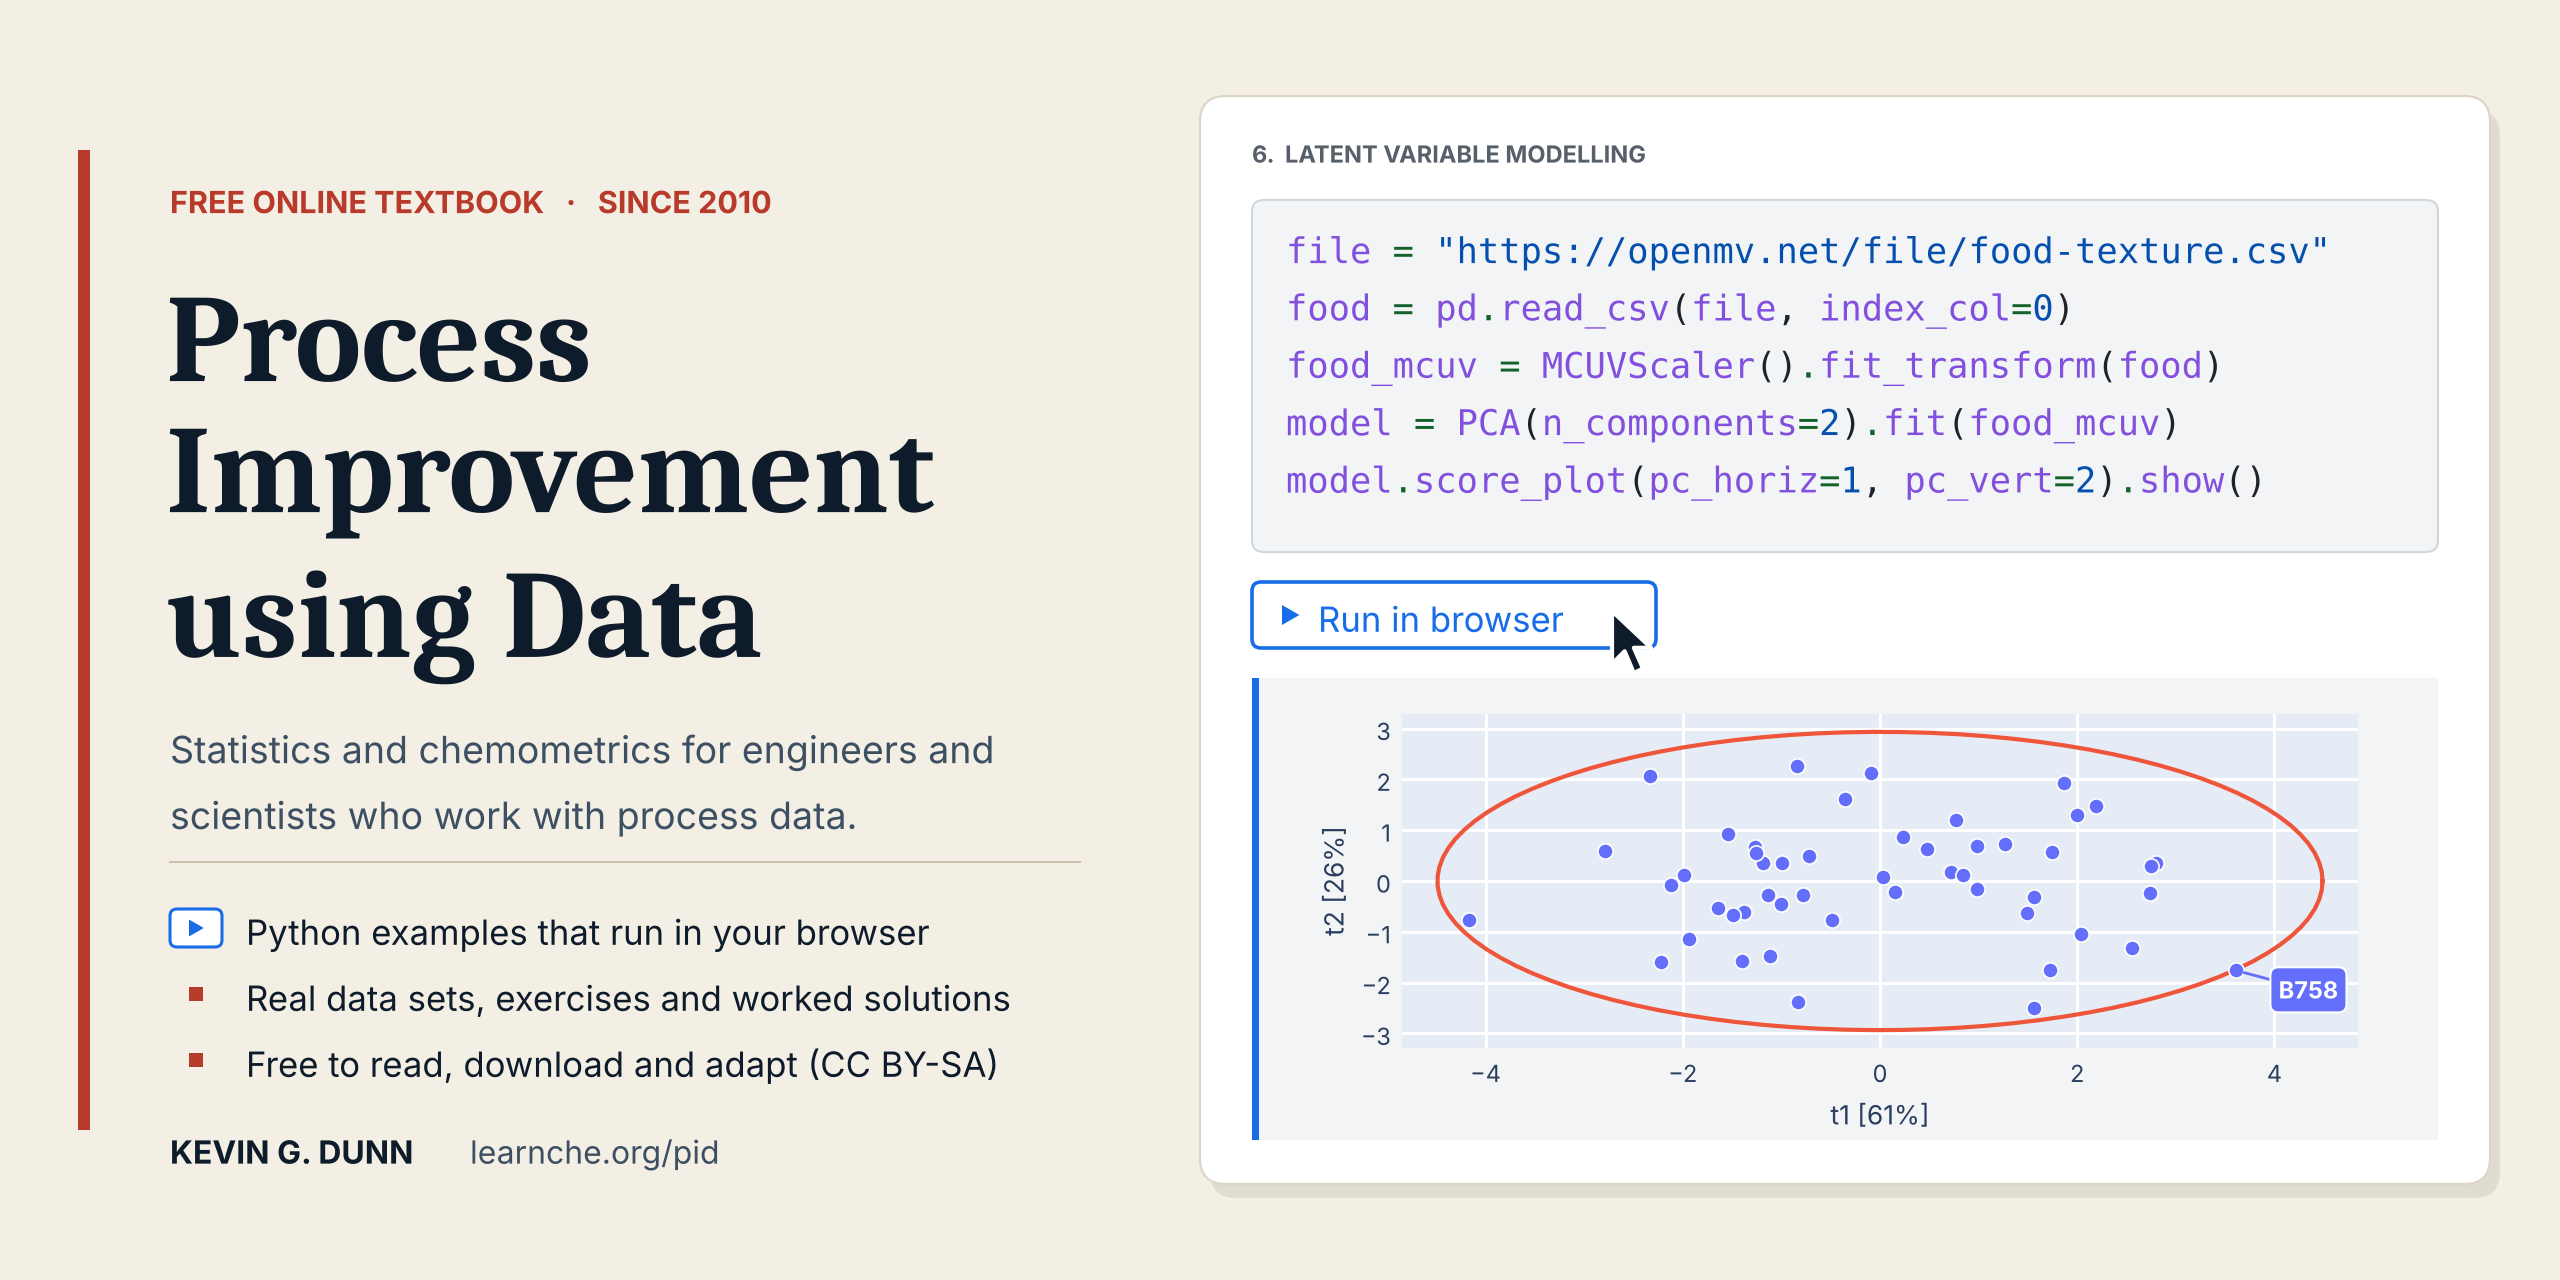
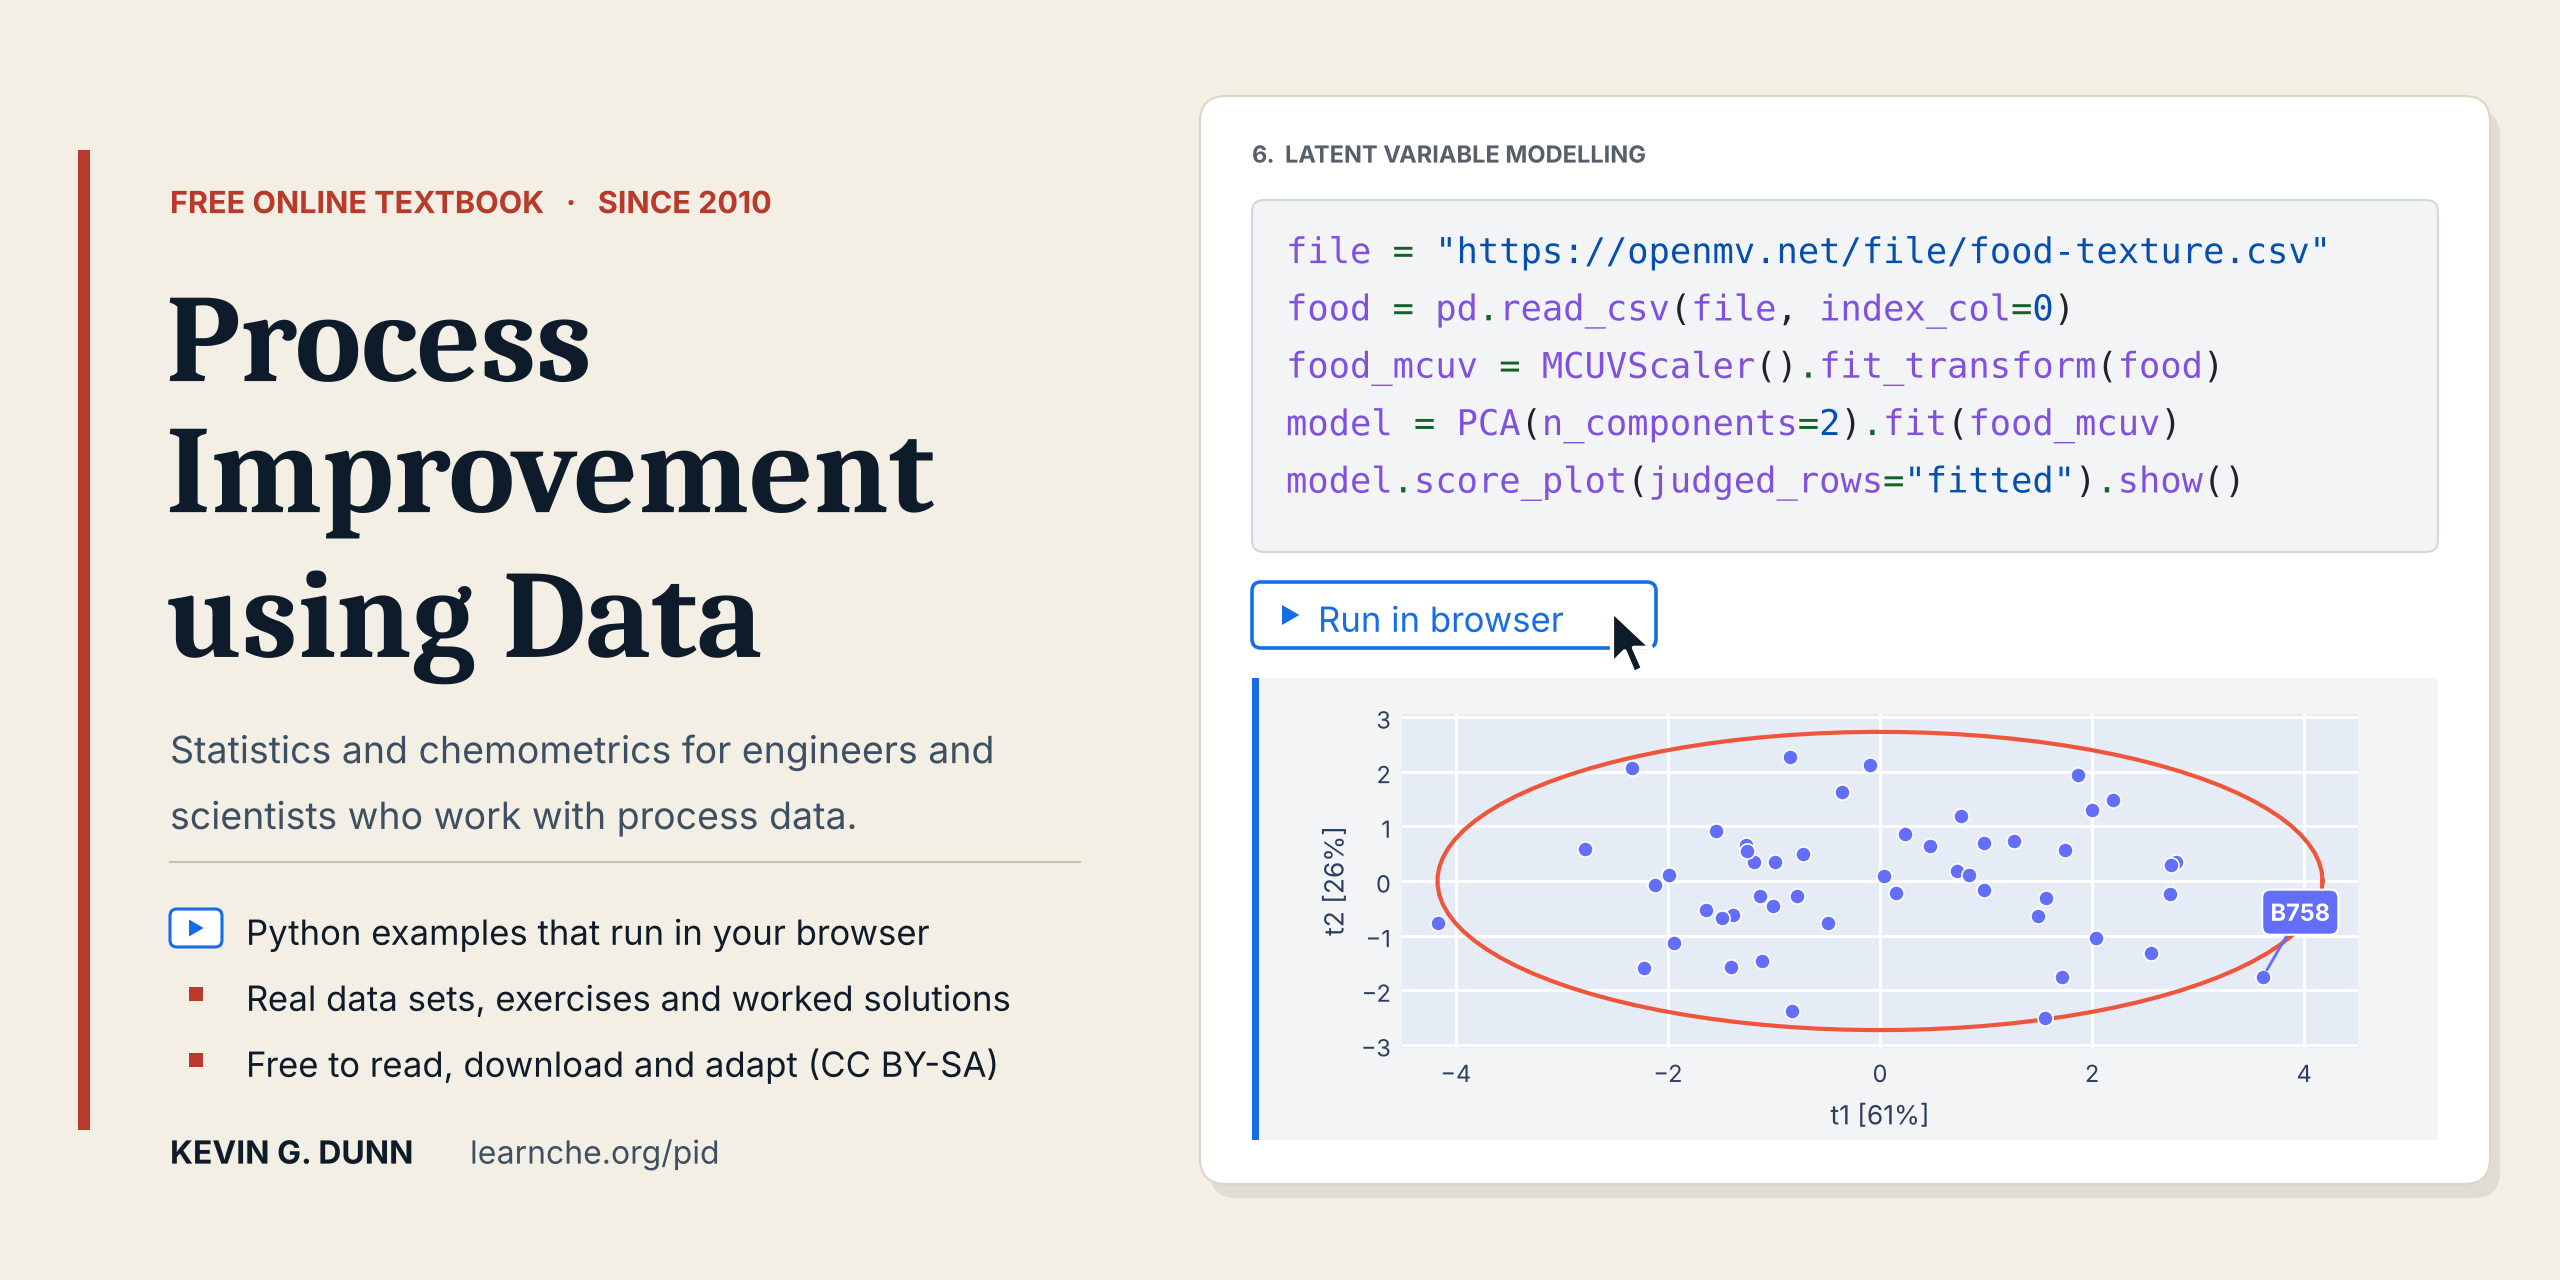
Hero card: the score plot's ellipse judges the pastries the model was fitted to
The card's last line of code and the call that draws the plot are the same
again, now model.score_plot(judged_rows="fitted"): the 95% ellipse is the
limit for fitted rows, so it is smaller and B758 sits just outside it. The
pc_horiz and pc_vert arguments are left at their defaults, 1 and 2, so the
line still fits the card. Closes #406.

Claude-Session: https://claude.ai/code/session_01S4nNrQrezZa8Wt3JVywWoM

Changed region(s): [[0.5312, 0.5625, 0.9375, 0.8438], [0.6562, 0.3438, 0.875, 0.4062]]

diff --git a/scripts/render_hero.py b/scripts/render_hero.py
@@ -64,15 +64,16 @@ file = "{FILE}"
 food = pd.read_csv(file, index_col=0)
 food_mcuv = MCUVScaler().fit_transform(food)
 model = PCA(n_components=2).fit(food_mcuv)
-model.score_plot(pc_horiz=1, pc_vert=2).show()"""
+model.score_plot(judged_rows="fitted").show()"""
 
 
 def fit_food_texture() -> tuple[pd.DataFrame, np.ndarray, pd.Series]:
     """Fit the book's two-component PCA model; return scores, the 95% ellipse and R^2 per component."""
     food = pd.read_csv(FILE, index_col=0)
     model = PCA(n_components=2).fit(MCUVScaler().fit_transform(food))
-    # The page's score plot draws the 95% limit as its second trace.
-    limit = model.score_plot(pc_horiz=1, pc_vert=2).data[1]
+    # The page's score plot draws the 95% limit as its second trace: the limit for the pastries the
+    # model was fitted to, the same call as the last line of CODE.
+    limit = model.score_plot(judged_rows="fitted").data[1]
     return model.scores_, np.column_stack([limit.x, limit.y]), model.r2_per_component_
 
 
